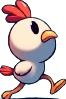
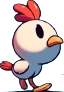
put all stills into one container, not yet done

diff --git a/js/player.js b/js/player.js
@@ -1,31 +1,43 @@
 class Player {
-  constructor(gameScreen, left, top, width, height, environmentVelocity = 3) {
+  constructor(gameScreen, left, top, environmentVelocity = 3) {
     this.gameScreen = gameScreen;
+
+    // primary attributes
     this.left = left;
     this.top = top;
     this.width = 65;
     this.height = 92;
 
-    
-
-    this.element = document.createElement("img");
-    this.element.src = "images/chicken-right/chicken-run-0.png";
+    // create container for the player character stills
+    this.element = document.createElement("div");
     this.element.style.position = "absolute";
-    this.element.style.width = `auto`;
-    this.element.style.height = `auto`;
+    this.element.style.width = `${this.width}px`;
+    this.element.style.height = `${this.height}px`;
     this.element.style.top = `${top}px`;
     this.element.style.left = `${left}px`;
     this.gameScreen.appendChild(this.element);
-    this.element.style.zIndex = 9;
+    this.element.style.zIndex = 9; 
 
+    // add stills to the player character
+    this.characterStills().forEach((still) => {
+      const image = document.createElement("img");
+      image.src = still;
+      image.style.width = `auto`;
+      image.style.height = `auto`;
+      image.style.zIndex = 9;
+
+      //TODO: ATTEMPT TO POSITION THE IMAGE ON TOP ON EACH OTHER
+      image.style.position = "relative";
+      image.style.top = "0px";
+      image.style.left = "0px";
+
+      this.element.appendChild(image);
+    });
+
+    // secondary attributes for movement
     this.directionX = 0;
     this.directionY = 0;
-
-    this.falling = {
-      active: true,
-      velocity: 10,
-    };
-
+    this.falling = { active: true, velocity: 10 };
     this.jumping = { velocity: 20 };
     this.moving = { velocity: 10 };
     this.environment = { velocity: environmentVelocity };
@@ -62,6 +74,7 @@ class Player {
         return true;
       }
     }
+
     this.falling.active = true;
     return false;
   }
@@ -77,5 +90,20 @@ class Player {
   updatePosition() {
     this.element.style.left = `${this.left}px`;
     this.element.style.top = `${this.top}px`;
+  }
+
+  characterStills() {
+    return [
+      "images/chicken-right/chicken-run-0.png",
+      "images/chicken-right/chicken-run-1.png",
+      "images/chicken-right/chicken-run-2.png",
+      "images/chicken-right/chicken-run-3.png",
+      "images/chicken-right/chicken-run-4.png",
+      "images/chicken-right/chicken-run-5.png",
+      "images/chicken-right/chicken-run-6.png",
+      "images/chicken-right/chicken-run-7.png",
+      "images/chicken-right/chicken-run-8.png",
+      "images/chicken-right/chicken-run-9.png",
+    ];
   }
 }

diff --git a/js/game.js b/js/game.js
@@ -29,7 +29,7 @@ class Game {
     this.gameScreen.style.display = "flex";
 
     const envVel = 3;
-    this.player = new Player(this.gameScreen, 0, 0, 100, 150, envVel);
+    this.player = new Player(this.gameScreen, 0, 0, envVel);
 
     this.obstacles.push(
       new Obstacle(this.gameScreen, 0, 530 - 20, 500, 20, envVel)
